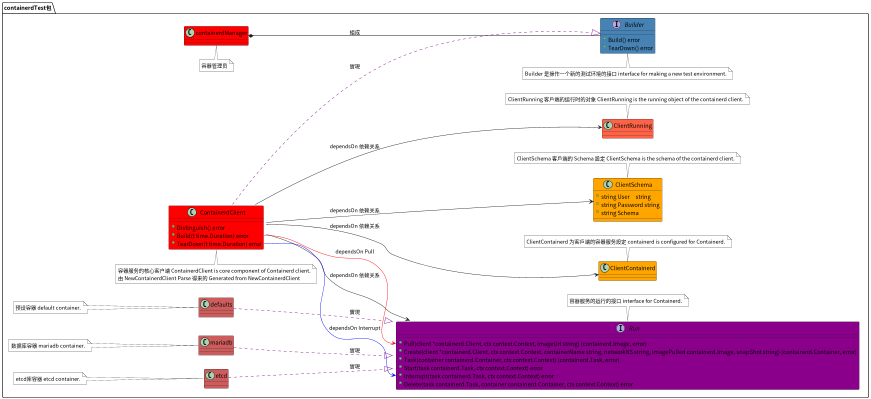
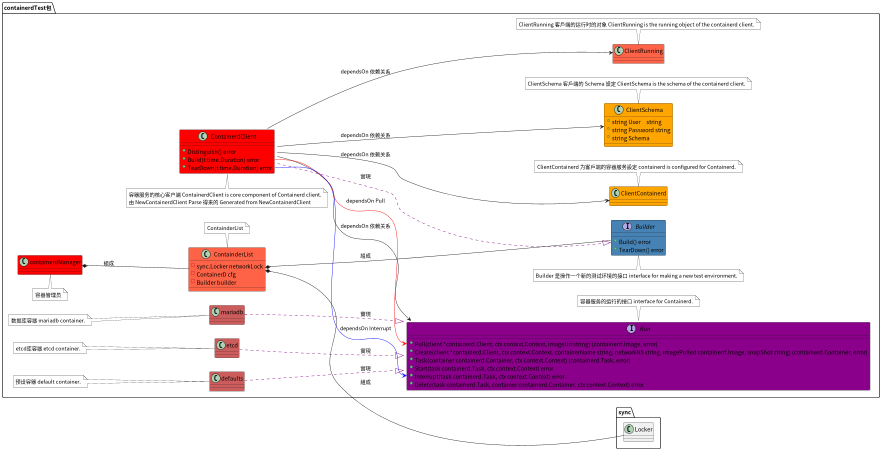
test: lock containerd ok

diff --git a/backend/direct_connection_test.go b/backend/direct_connection_test.go
@@ -22,6 +22,7 @@ import (
 	"github.com/stretchr/testify/assert"
 	"github.com/stretchr/testify/require"
 	"strings"
+	"sync"
 	"testing"
 	"time"
 )
@@ -194,36 +195,49 @@ func TestDirectConnWithoutDB(t *testing.T) {
 // TestDirectConnWithoutDB 为测试数据库的后端连线流程，以下测试将会使用 MariaDB 的服务器
 func TestDirectConnWithDB(t *testing.T) {
 	mgr, _ := containerdTest.NewContainderManager("./example/")
-	err := mgr.Builder["mariadb-server"].Build(60 * time.Second)
-	fmt.Println(err)
+	wg := sync.WaitGroup{}
+	wg.Add(5)
+	for i := 0; i < 5; i++ {
+		go func() {
+			builder, _ := mgr.GetBuilder("mariadb-server")
+			err := builder.Build(60 * time.Second)
+			assert.Nil(t, err)
 
-	// >>>>> >>>>> >>>>> 进行测试 testing
+			// >>>>> >>>>> >>>>> 进行测试 testing
 
-	if err == nil {
-		// 产生直连对象 Create dc connection.
-		var dc = DirectConnection{
-			// login to the mariadb. 登入数据库
-			user:      "xiaomi",           // user 帐户名称
-			password:  "12345",            // password 密码
-			charset:   "utf8mb4",          // charset 数据库编码
-			collation: 46,                 // collation 文本排序
-			addr:      "10.10.10.10:3306", // mariadb 的 IP 地址
-
-		}
-
-	LOOP:
-		// 建立新的数据库连线 create a new connection to the mariadb.
-		for i := 0; i < 10; i++ {
-			fmt.Println("try to connect to the mariadb:", i)
-			err = dc.connect() // 连接数据库 connect to the mariadb.
 			if err == nil {
-				break LOOP // 如果连接成功，则跳出循环 break the loop if the connection is successful.
-			}
-			time.Sleep(1 * time.Second) // 等待 1 秒 wait for 1 second.
-		}
-	}
+				// 产生直连对象 Create dc connection.
+				var dc = DirectConnection{
+					// login to the mariadb. 登入数据库
+					user:      "xiaomi",           // user 帐户名称
+					password:  "12345",            // password 密码
+					charset:   "utf8mb4",          // charset 数据库编码
+					collation: 46,                 // collation 文本排序
+					addr:      "10.10.10.10:3306", // mariadb 的 IP 地址
 
-	_ = mgr.Builder["mariadb-server"].TearDown(60 * time.Second)
+				}
+
+			LOOP:
+				// 建立新的数据库连线 create a new connection to the mariadb.
+				for i := 0; i < 10; i++ {
+					fmt.Println("try to connect to the mariadb:", i)
+					err = dc.connect() // 连接数据库 connect to the mariadb.
+					if err == nil {
+						break LOOP // 如果连接成功，则跳出循环 break the loop if the connection is successful.
+					}
+					time.Sleep(1 * time.Second) // 等待 1 秒 wait for 1 second.
+				}
+			}
+
+			err = builder.TearDown(60 * time.Second)
+			assert.Nil(t, err)
+
+			err = mgr.ReturnBuilder("mariadb-server")
+			require.Nil(t, err)
+			wg.Done()
+		}()
+	}
+	wg.Wait()
 }
 
 // TestDirectConnWithoutDB is to test the initial handshake packet. The test uses MariaDB.

diff --git a/util/mocks/containerdTest/manager.go b/util/mocks/containerdTest/manager.go
@@ -5,7 +5,6 @@ import (
 	"flag"
 	"github.com/XiaoMi/Gaea/log"
 	"github.com/containerd/containerd"
-	"io/ioutil"
 	"os"
 	"strings"
 	"sync"
@@ -67,15 +66,30 @@ func (c *ContainerD) NewClient() *containerd.Client {
 
 // ContainderManager 容器服务管理員
 type ContainderManager struct {
-	networkLock map[string]sync.Mutex
-	cfg         map[string]ContainerD
-	Builder     map[string]Builder
-	configPath  string
+	configPath     string
+	containderList map[string]ContainderList
 }
 
-// ParseCMconfig 載入容器服务管理员設定
-func ParseCMconfig(configPath string) ([]byte, error) {
-	return ioutil.ReadFile(configPath)
+type ContainderList struct {
+	networkLock sync.Locker
+	cfg         ContainerD
+	builder     Builder
+}
+
+// GetBuilder 获取容器服务构建器
+func (cm *ContainderManager) GetBuilder(name string) (Builder, error) {
+	// 如果没有配置，则返回错误
+	if _, ok := cm.containderList[name]; !ok {
+		return nil, errors.New("invalid config name")
+	}
+	cm.containderList[name].networkLock.Lock()
+	return cm.containderList[name].builder, nil
+}
+
+// ReturnBuilder 归还容器服务构建器
+func (cm *ContainderManager) ReturnBuilder(name string) error {
+	cm.containderList[name].networkLock.Unlock()
+	return nil
 }
 
 // NewContainderManager 新建容器服务管理員
@@ -93,15 +107,21 @@ func NewContainderManager(path string) (*ContainderManager, error) {
 		log.Warn("load containerd config failed, %v", err)
 		return nil, err
 	}
-	builder := make(map[string]Builder)
+	containerList := make(map[string]ContainderList)
 	for container, config := range configs {
-		if builder[container], err = NewBuilder(config); err != nil {
+		builder, err := NewBuilder(config)
+		if err != nil {
 			log.Warn("make containerd client failed, %v", err)
 			return nil, err
 		}
+		containerList[container] = ContainderList{
+			cfg:         config,
+			builder:     builder,
+			networkLock: &sync.Mutex{},
+		}
 	}
 
-	return &ContainderManager{configPath: path, cfg: configs, Builder: builder}, nil
+	return &ContainderManager{configPath: path, containderList: containerList}, nil
 }
 
 func checkDir(path string) error {

diff --git a/util/mocks/containerdTest/manager_test.go b/util/mocks/containerdTest/manager_test.go
@@ -9,10 +9,12 @@ import (
 func TestManager(t *testing.T) {
 	//
 	mgr, _ := NewContainderManager("./example/")
-	err := mgr.Builder["mariadb-server"].Build(60 * time.Second)
+	builder, _ := mgr.GetBuilder("mariadb-server")
+
+	err := builder.Build(60 * time.Second)
 	fmt.Println(err)
 
 	time.Sleep(time.Second * 30)
 
-	_ = mgr.Builder["mariadb-server"].TearDown(60 * time.Second)
+	_ = builder.TearDown(60 * time.Second)
 }
